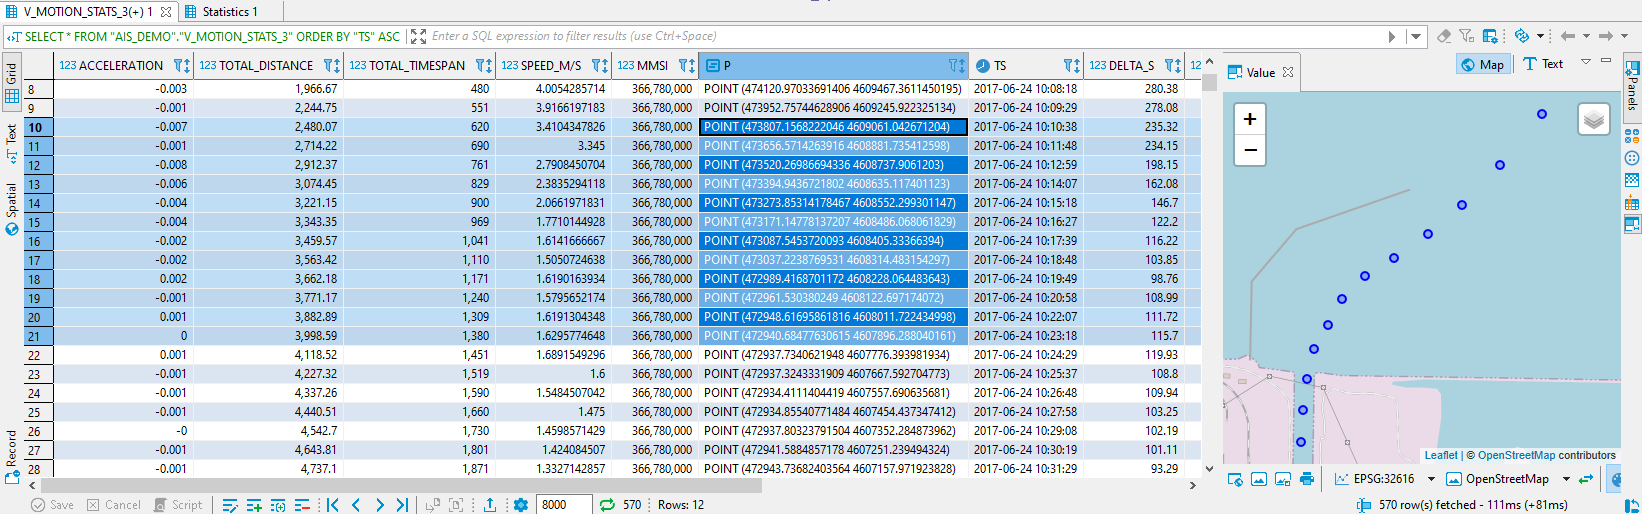
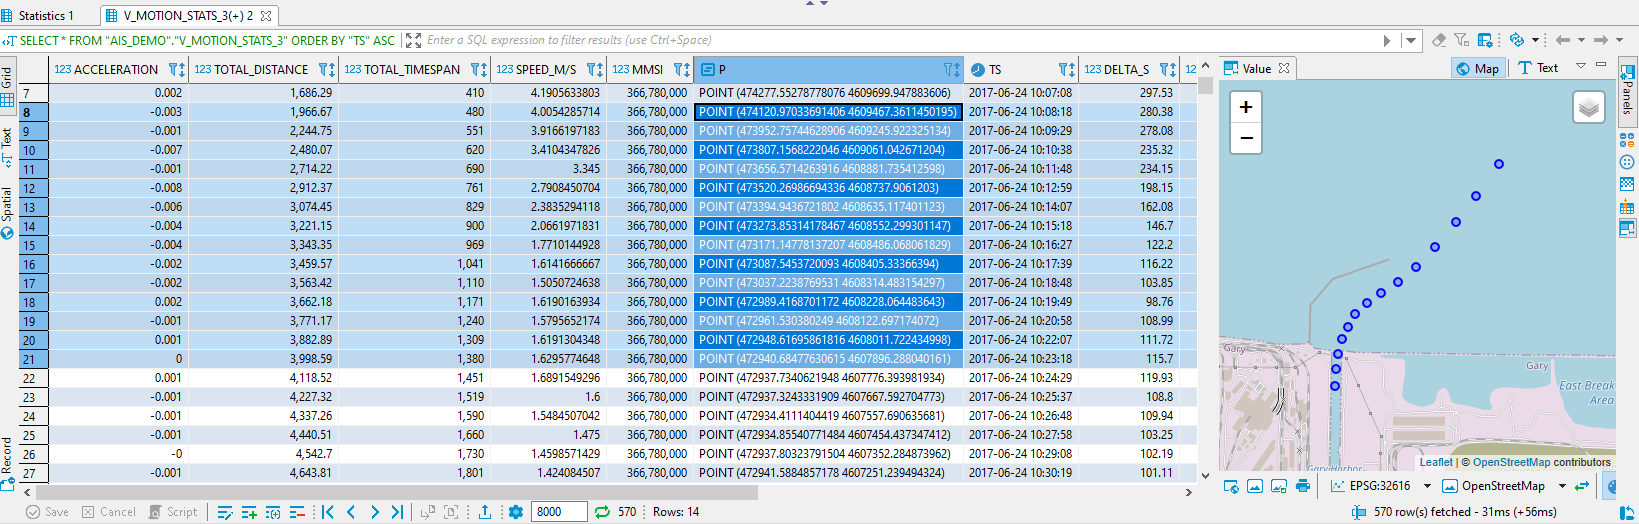
ex 3

diff --git a/exercises/ex3/README.md b/exercises/ex3/README.md
@@ -46,7 +46,7 @@ In the last step, we calculate the acceleration, dividing the change in speed by
 ```SQL
 -- Step 3: calculate acceleration
 CREATE OR REPLACE VIEW "AIS_DEMO"."V_MOTION_STATS_3" AS (
-	SELECT  ("SPEED_M/S"-LAG("SPEED_M/S", 1) OVER(ORDER BY "TS" ASC))/("DELTA_T") AS "ACCELERATION", *
+	SELECT  ("SPEED_M/S"-LAG("SPEED_M/S", 1) OVER(PARTITION BY "MMSI" ORDER BY "TS" ASC))/("DELTA_T") AS "ACCELERATION", *
 		FROM "AIS_DEMO"."V_MOTION_STATS_2"
 );
 SELECT * FROM "AIS_DEMO"."V_MOTION_STATS_3" ORDER BY "TS" ASC;
@@ -65,7 +65,7 @@ RETURNS TABLE ("MMSI" INT, "TS" TIMESTAMP, "TOTAL_DISTANCE" DECIMAL(10,2), "TOTA
 	"DATE" DATE, "WEEKDAY" INT, "HOUR" INT)
 AS BEGIN
 	DAT = APPLY_FILTER("AIS_DEMO"."AIS_2017", :i_filter);
-	MS = SELECT *, CAST(("SPEED_M/S"-LAG("SPEED_M/S", 1) OVER(ORDER BY "TS" ASC))/("DELTA_T") AS DECIMAL(10,3)) AS "ACCELERATION"
+	MS = SELECT *, CAST(("SPEED_M/S"-LAG("SPEED_M/S", 1) OVER(PARTITION BY "MMSI" ORDER BY "TS" ASC))/("DELTA_T") AS DECIMAL(10,3)) AS "ACCELERATION"
 		FROM (
 			SELECT	CAST(SUM("DELTA_S") OVER(PARTITION BY "MMSI" ORDER BY "TS" ASC) AS DECIMAL(10,2)) AS "TOTAL_DISTANCE",
 					CAST(SUM("DELTA_T") OVER(PARTITION BY "MMSI" ORDER BY "TS" ASC) AS DECIMAL(10,2)) AS "TOTAL_TIMESPAN",
@@ -87,13 +87,16 @@ AS BEGIN
 		ORDER BY "MMSI", "FWD_RANK";
 END;
 
--- Let's inspect some motion statistics
+-- Let's inspect some motion statistics. The string parameter needs to be a valid SQL WHERE condition on the table "AIS_DEMO"."AIS_2017"
 SELECT * FROM "AIS_DEMO"."F_MOTION_STATS"(' "MMSI" = 366780000 AND "TS" BETWEEN ''2017-06-24 10:00:00'' AND ''2017-06-25 10:00:00'' ');
 SELECT * FROM "AIS_DEMO"."F_MOTION_STATS"(' "VESSELTYPE" = 1004 AND "TS" BETWEEN ''2017-06-01 00:00:00'' AND ''2017-06-07 23:00:00'' ');
 ```
-Here is a how the motion statistics could look like in QGIS. The first screenshot shows the vessel's speed (red=fast blue=slow) observed in a 3 hour interval. The second screenshot visualizes "traces" of vessels. The more transparent the line is, the more the observations happened in the past.
+Here is a how the motion statistics could be visualized in QGIS. The first screenshot shows a vessel's speed (red=fast blue=slow) observed in a 3 hour interval. The second screenshot visualizes "traces" of vessels. The more transparent the line is, the more the observations happened in the past.
 <br>![](images/speed.png)
 <br><br>![](images/trace.png)
+
+As an alternative, we can plot "SPEED_M/S" and "TOTAL_DISTANCE" over time directly in SAP HANA Database Explorer. We see two longer and a shorter period with high speed (peaks in the blue line). Accordingly, the orange line indicates total distance.
+<br>![](images/speed_distance.png)
 
 We can use the user-defined function "F_MOTION_STATS" as sub-query or derive additional statistics from the result. The below query for example takes the fine granular motion statistics and calculates hourly average and maximum of speed for a 7 day interval.
 ```SQL
@@ -102,13 +105,190 @@ SELECT HOUR("TS"), COUNT(*), COUNT(DISTINCT "MMSI"), AVG("SPEED_M/S"), MAX("SPEE
 	GROUP BY HOUR("TS")
 	ORDER BY HOUR("TS");
 ```
-We can see htat the average speed is highest in the early PMs, but the maximum speed was observed between 10PM and midnight.
+We can see that the average speed is highest (4.7 and 4.8 m/sec) in the early PMs, but the maximum speed was observed between 10PM and midnight (>30 m/sec).
 <br>![](images/hourly_stats.png)
 
+## Vessel Trajectories<a name="subex2"></a>
 
+In the last exercise, we generated a vessel's trajectory or route by simply aggregating individual 2-point linestrings into a geometry collection. For pure visualization purposes this might be good enough - QGIS doesn't care if you want it to render a collection of 1000 lines with just a start and an end point, or to render a single linestring with 500 supporting points. However, it is much more appropriate to calculate trajectories as a single geometry based on supporting points with measures, or "M" values. For our vessel trajectories a natural choice for "M" is a timestamp-like measure - we simply take the seconds between the beginning of our dataset and the actual observation.
+A convenient way to construct a linestring from a set of points is to use the STRING_AGG operator to generate a well-known-text (WKT) string from which we can get a geometry. The query below takes the result of the motion statistics table function for 5 vessels, and generates a linestring for each vessel.
+```SQL
+SELECT "MMSI", ST_GeomFromText(
+		'LineString M('||STRING_AGG(TO_NVARCHAR("SHAPE_32616".ST_X()||' '||"SHAPE_32616".ST_Y()||' '||SECONDS_BETWEEN('2017-05-01 00:00:00', "TS")), ',' ORDER BY "FWD_RANK")||')'
+		, 32616)
+	FROM "AIS_DEMO"."F_MOTION_STATS"(' "MMSI" IN (367706320, 367909800, 367730240, 366780000, 314084000) AND TS BETWEEN ''2017-06-02 5:00:00'' AND ''2017-06-03 7:00:00'' ')
+	GROUP BY "MMSI"
+	HAVING COUNT(*)>2;
+```
+The screenshot below visualizes the linestring that represents the trajectory of a ferry.
+<br>![](images/traj.png)
+In a similar way we can generate the trajectories of cargo ships in a 7 day interval - different colors indicate different vessels.
+<br>![](images/cargo_traj.png)
+... and the same for passenger ships.
+<br>![](images/pass_traj.png)
+
+## Dwell Locations and Trip Segments<a name="subex3"></a>
+
+The blue line of the passenger ship in the screenshot above tells us that this ship is going back and forth between the Milwaukee and Muskegon. In this exercise we want to subdivide the trajectory into individual trip segments, i.e. identify dwell locations. We will basically inspect a sliding window of n minutes to find intervals with no or minimal motion. Knowing these "no motion" intervals allows us to split the trajectory into segments.
+In the end, we will create a single table function detecting trip segments, but first we will create five stacked views to explain the logic.
+<ol><li>We create sliding windows, joining each observation to the ones within the previous n minutes.</li>
+<li>We then check the sum of the distances between the observations in a window - if less than 100 m, we assign a 'no motion' flag.</li>
+<li>Next, we identify *changes in motion* by comparing each observation to the previous one.</li>
+<li>The change flags are used to subdivide the trajectory into segments.</li>
+<li>Finally, we aggregate the observations by segment.</li>
+</ol>
+
+### 1 Sliding Windows
+
+```SQL
+-- Step 1: sliding windows
+CREATE OR REPLACE VIEW "AIS_DEMO"."V_DWELL_LOC_1_DIST" AS (
+	-- get some data from the AIS_2017 table, calculate the distance to previous observation
+	WITH DAT AS (
+		SELECT "MMSI", "TS", "SHAPE_32616",
+			"SHAPE_32616".ST_DISTANCE(LAG("SHAPE_32616", 1) OVER(PARTITION BY "MMSI" ORDER BY "TS"), 'meter') AS "DIST_TO_PREV",
+			ST_MakeLine(LAG("SHAPE_32616", 1) OVER(PARTITION BY "MMSI" ORDER BY "TS"), "SHAPE_32616") AS "LINE_32616"
+			FROM "AIS_DEMO"."AIS_2017"
+			WHERE "MMSI" = 367909800 AND "TS" BETWEEN '2017-06-1 15:30:00' AND '2017-06-2 24:00:00'
+		)
+	SELECT T1."MMSI", T1."TS", T1."SHAPE_32616", T1."LINE_32616", T2."TS" AS "TS2", T2."SHAPE_32616" AS "SHAPE_32616_2", T2."DIST_TO_PREV",
+		-- we just take the distances within each sliding window, so the oldest element adds a distance=0 to the sum
+		CASE WHEN LAG(T1."TS", 1) OVER (PARTITION BY T1."MMSI", T1."TS" ORDER BY T2."TS") = T1."TS"
+			THEN T2."DIST_TO_PREV"
+			ELSE 0
+			END AS "DIST"
+		FROM DAT AS T1
+		LEFT JOIN DAT AS T2
+			-- every observation is joined to observations that occurred up to 5*60 seconds in the past
+			ON T1."TS" BETWEEN T2."TS" AND ADD_SECONDS(T2."TS", 5*60) AND T1."MMSI" = T2."MMSI"
+);
+
+SELECT "MMSI", "TS", "TS2", "SHAPE_32616_2", "DIST_TO_PREV", "DIST"
+	FROM "AIS_DEMO"."V_DWELL_LOC_1_DIST"
+	ORDER BY "MMSI", "TS", "TS2";
+```
+Query 1 returns for each observation (the highlighted one at 16:53:03) the previous ones up 5 minutes (see column "TS2" - ranging from 16:48:48 to 16:53:03). "DIST_TO_PREV" contains the spatial distance to the previous observation (17 - 51 meters). We are only interested in the four distances between the observations WITIN one window. This is why "DIST" is 0 for the oldest element in the window.
+<br>![](images/segments_step1.png)
+
+### 2 Sum up Distances, Motion
+
+```SQL
+-- Step 2: Summing up distances
+CREATE OR REPLACE VIEW "AIS_DEMO"."V_DWELL_LOC_2_DIST" AS (
+	-- if the sum of the distances between the observation in the last 5 minutes is lower that 100m, we consider this a "no motion" interval
+	SELECT *, CASE WHEN "SUM_DIST" < 100 THEN 'no motion' ELSE 'motion' END AS "MOTION" FROM (
+		SELECT "MMSI", "TS", "SHAPE_32616", "LINE_32616", COUNT(*) AS "NUM_OBS_IN_INTERVAL", SUM("DIST") AS "SUM_DIST"
+			FROM "AIS_DEMO"."V_DWELL_LOC_1_DIST"
+			GROUP BY "MMSI", "TS", "SHAPE_32616", "LINE_32616"
+			-- we require to have at least 3 observations in the 5 minute interval
+			HAVING COUNT(*) >=3
+	)
+);
+SELECT "MMSI", "TS", "SHAPE_32616", "NUM_OBS_IN_INTERVAL", "SUM_DIST", "MOTION"
+	FROM "AIS_DEMO"."V_DWELL_LOC_2_DIST"
+	ORDER BY "MMSI", "TS" ASC;
+```
+Query 2 aggregates the windows. For our observation at 16:53:03 we see that there are 5 observation in the last 5 minutes, resulting in a cumulative distance of 98.7m. Since this is below the threshold (100m), the flag is set to "no motion".
+<br>![](images/segments_step2.png)
+
+### 3 Motion Change
+
+```SQL
+-- Step 3: identify changes in motion
+CREATE OR REPLACE VIEW "AIS_DEMO"."V_DWELL_LOC_3_DIST" AS (
+	SELECT CASE
+		WHEN LAG("MOTION", 1) OVER(PARTITION BY "MMSI" ORDER BY "TS") != "MOTION" AND "MOTION" = 'no motion' THEN 'stopped'
+		WHEN LAG("MOTION", 1) OVER(PARTITION BY "MMSI" ORDER BY "TS") != "MOTION" AND "MOTION" = 'motion' THEN 'started'
+		END AS "MOTION_CHANGE", *
+		FROM "AIS_DEMO"."V_DWELL_LOC_2_DIST"
+);
+SELECT "MMSI", "TS", "MOTION", "MOTION_CHANGE", "SHAPE_32616"
+	FROM "AIS_DEMO"."V_DWELL_LOC_3_DIST"
+	ORDER BY "MMSI", "TS" ASC;
+```
+As the "MOTION" flag changes from 'motion' to 'no motion' at 16:53:03 we set a "MOTION_CHANGE" flag 'stopped'
+<br>![](images/segments_step3.png)
+
+### 4 Trip Segments
+
+```SQL
+-- Step 4: segment trips using motion change markers
+CREATE OR REPLACE VIEW "AIS_DEMO"."V_DWELL_LOC_4_DIST" AS (
+	SELECT COUNT("MOTION_CHANGE") OVER (PARTITION BY "MMSI" ORDER BY "TS") AS "TRIP_SEGMENT", *
+		FROM "AIS_DEMO"."V_DWELL_LOC_3_DIST"
+);
+SELECT "MMSI", "TS", "MOTION", "MOTION_CHANGE", "TRIP_SEGMENT", "SHAPE_32616"
+	FROM "AIS_DEMO"."V_DWELL_LOC_4_DIST"
+	ORDER BY "MMSI", "TS" ASC;
+```
+In step 4 we just count the "MOTION_CHANGE" markers to generate a "TRIP_SEGMENT" number. At 16:53:03 trip segment 1 begins.
+<br>![](images/segments_step4.png)
+
+### 5 Aggregation by Segment
+
+```SQL
+-- Step 5: aggregate observations by trip segment
+CREATE OR REPLACE VIEW "AIS_DEMO"."V_DWELL_LOC_5_DIST" AS (
+	SELECT "MMSI", MIN("TS") AS "SEGMENT_START", MAX("TS") AS "SEGMENT_END", MAX("MOTION") AS "MOTION", MIN("SUM_DIST") AS "MIN_DIST", MAX("SUM_DIST") AS "MAX_DIST",
+			COUNT(*) AS "NUM_OBS_IN_INTERVAL", "TRIP_SEGMENT", ST_COLLECTAGGR("SHAPE_32616") AS "SHAPE_32616", ST_COLLECTAGGR("LINE_32616") AS "LINE_32616"
+		FROM "AIS_DEMO"."V_DWELL_LOC_4_DIST"
+		GROUP BY "MMSI", "TRIP_SEGMENT"
+);
+SELECT * FROM "AIS_DEMO"."V_DWELL_LOC_5_DIST" ORDER BY "MMSI", "TRIP_SEGMENT" ASC;
+```
+In the last step we simply sum up some values by trip segment. Line 2 contains the values for the 'no motion' segment that starts at 16:53:03. There are 651 observation in that segment, with a maximum of 98.7m cumulative motion distance within 5 minutes.
+<br>![](images/segments_step5.png)
+
+### Steps 1-5 in a single table function
+
+We can wrap the 5 simple steps from above in a single table function, so we can call it in the same flexible manner as our motion statistics above.
+```SQL
+-- Wrap steps 1-5 in a function, so we can call it with a filter clause
+CREATE OR REPLACE FUNCTION "AIS_DEMO"."F_TRIP_SEGMENTS_DIST" (IN i_filter NVARCHAR(5000), IN i_intervalMin INT, IN i_distanceThreshold DOUBLE)
+RETURNS TABLE ("MMSI" INT, "SEGMENT_START" TIMESTAMP, "SEGMENT_END" TIMESTAMP, "MOTION" NVARCHAR(10), "MIN_DIST" DOUBLE, "MAX_DIST" DOUBLE, "C" INT,
+	"TRIP_SEGMENT" INT, "SHAPE_32616" ST_GEOMETRY(32616), "LINE_32616" ST_GEOMETRY(32616))
+AS BEGIN
+	DAT1 = APPLY_FILTER("AIS_DEMO"."AIS_2017", :i_filter);
+	DAT = SELECT *, ST_MakeLine(LAG("SHAPE_32616", 1) OVER(PARTITION BY "MMSI" ORDER BY "TS"), "SHAPE_32616") AS "LINE_32616", "SHAPE_32616".ST_DISTANCE(LAG("SHAPE_32616", 1) OVER(PARTITION BY "MMSI" ORDER BY "TS"), 'meter') AS "DIST_TO_PREV" FROM :DAT1;
+	RES = 	SELECT "MMSI", MIN("TS") AS "SEGMENT_START", MAX("TS") AS "SEGMENT_END", MAX("MOTION") AS "MOTION", MIN("SUM_DIST") AS "MIN_DIST", MAX("SUM_DIST") AS "MAX_DIST",
+		COUNT(*) AS C, "TRIP_SEGMENT", ST_COLLECTAGGR("SHAPE_32616") AS "SHAPE_32616", ST_COLLECTAGGR("LINE_32616") AS "LINE_32616"
+		FROM (
+			SELECT COUNT("MOTION_CHANGE") OVER (PARTITION BY "MMSI" ORDER BY "TS") AS "TRIP_SEGMENT", *
+				FROM (
+					SELECT CASE
+						WHEN LAG("MOTION", 1) OVER(PARTITION BY "MMSI" ORDER BY "TS") != "MOTION" AND "MOTION" = 'no motion' THEN 'stopped'
+						WHEN LAG("MOTION", 1) OVER(PARTITION BY "MMSI" ORDER BY "TS") != "MOTION" AND "MOTION" = 'motion' THEN 'started'
+						END AS "MOTION_CHANGE", *
+						FROM (
+							SELECT *, CASE WHEN "SUM_DIST" < :i_distanceThreshold THEN 'no motion' ELSE 'motion' END AS "MOTION" FROM (
+								SELECT "MMSI", "TS", "SHAPE_32616", "LINE_32616", COUNT(*), SUM("DIST") AS "SUM_DIST"
+									FROM (
+										SELECT T1."MMSI", T1."TS", T1."SHAPE_32616", T1."LINE_32616",
+											CASE WHEN LAG(T1."TS", 1) OVER (PARTITION BY T1."MMSI" ORDER BY T1."TS", T2."TS") = T1."TS"
+												THEN T2."DIST_TO_PREV"
+												ELSE 0
+												END AS "DIST"
+											FROM :DAT AS T1
+											LEFT JOIN :DAT AS T2
+												ON T1."TS" BETWEEN T2."TS" AND ADD_SECONDS(T2."TS", :i_intervalMin*60) AND T1."MMSI" = T2."MMSI"
+									)
+									GROUP BY "MMSI", "TS", "SHAPE_32616", "LINE_32616"
+									HAVING COUNT(*) >=3
+							)
+						)
+				)
+		)
+	GROUP BY "MMSI","TRIP_SEGMENT";
+	RETURN SELECT * FROM :RES;
+END;
+
+SELECT * FROM "AIS_DEMO"."F_TRIP_SEGMENTS_DIST"(' "MMSI" = 367341010 ', 8, 80);
+```
+The QGIS map below display the analysis for a single vessel's two months of motion. The different colors indicate different trip segments.
+<br>![](images/segments_single_vessel.png)
 
 ## Summary
 
-You've now ...
+A lot of code in the exercise... we have seen how to calculate motion statistics like speed and acceleration from raw AIS observations, and how to concatenate trajectories from the sequence of points. Finally, we have examined the logic of finding dwell/stop locations and trip segmentation.
 
-Continue to - [Exercise 3 - Excercise 3 ](../ex3/README.md)
+Continue to - [Exercise 4 - Spatial Clustering ](../ex4/README.md)
